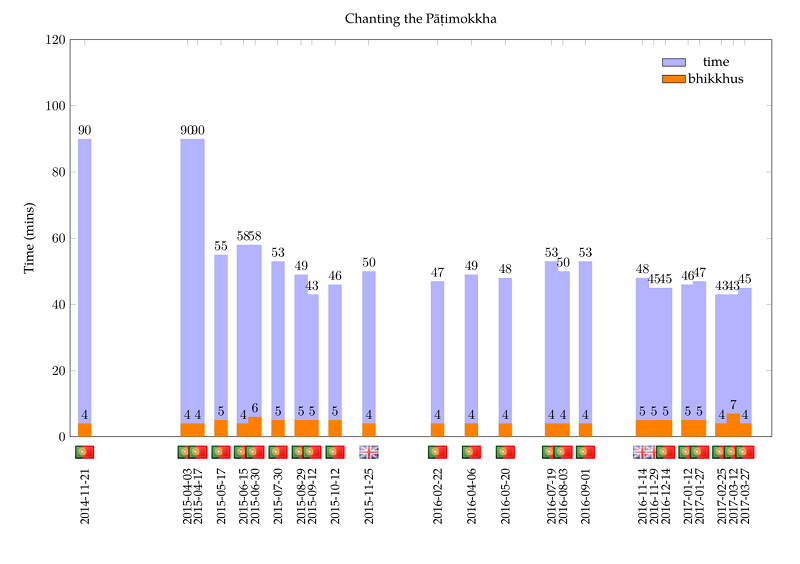
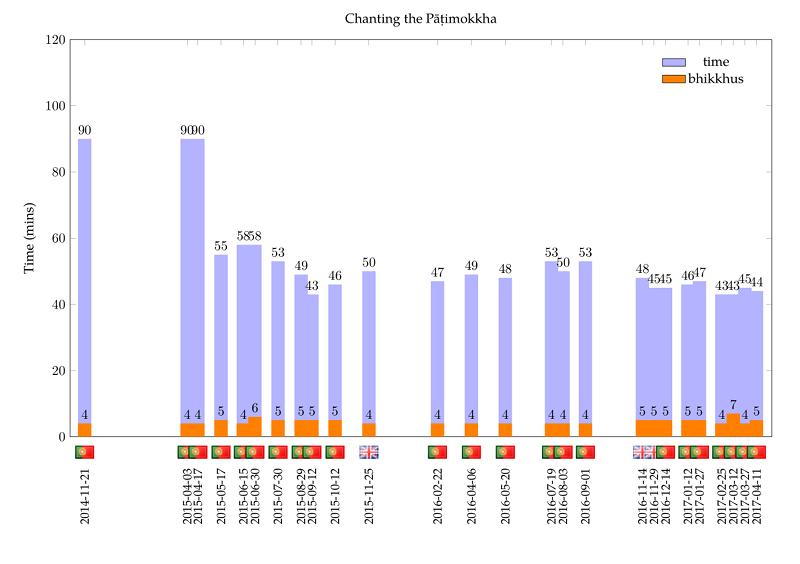
upd

Changed region(s): [[0.9062, 0.4823, 0.9688, 0.8138], [0.9375, 0.844, 0.9688, 0.9344]]

diff --git a/src/patimokkha-chanting-chart.tex b/src/patimokkha-chanting-chart.tex
@@ -108,6 +108,7 @@
   \node [anchor=south, yshift=-20pt] at (axis cs:2017-02-25,0) {\includegraphics[width=5mm]{pt}};
   \node [anchor=south, yshift=-20pt] at (axis cs:2017-03-12,0) {\includegraphics[width=5mm]{pt}};
   \node [anchor=south, yshift=-20pt] at (axis cs:2017-03-27,0) {\includegraphics[width=5mm]{pt}};
+  \node [anchor=south, yshift=-20pt] at (axis cs:2017-04-11,0) {\includegraphics[width=5mm]{pt}};
 
 \end{axis}
 \end{tikzpicture}
